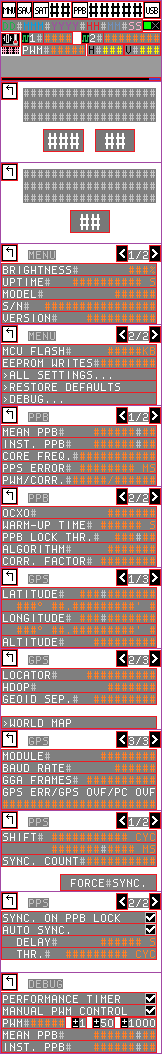
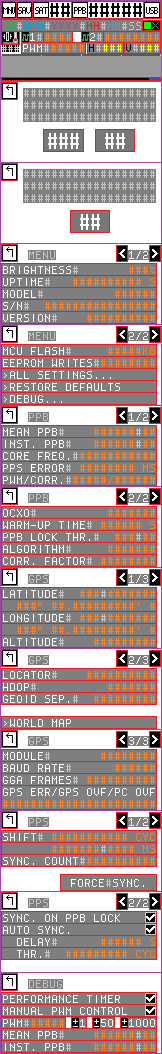
Implement new UI (WIP)

Changed region(s): [[0.0, 0.0304, 0.9877, 0.0607]]

diff --git a/src/ui.c b/src/ui.c
@@ -28,6 +28,9 @@ typedef struct {
     uint16_t samples_per_bar;
     uint16_t bars_per_grid;
     uint32_t samples_per_grid;
+
+    uint16_t major_tick_step;
+    uint16_t minor_tick_step;
 } TrendHScale;
 
 static uint8_t ui_trend_active_h_scale = UI_Trend_HScale_2min;
@@ -50,15 +53,16 @@ static bool     ui_trend_sample_added               = false;
 static uint16_t ui_trend_frame_buffer[UI_TREND_HEIGHT * UI_TREND_FRAME_BUFFER_NUM_BARS] = { 0 };
 
 static const TrendHScale ui_trend_h_scales[UI_Trend_HScale_Max + 1] = {
-    { 1,  1,   1  * 1   }, // UI_Trend_HScale_Auto - dummy entry
-    { 1,  120, 1  * 120 }, // UI_Trend_HScale_2min
-    { 2,  150, 2  * 150 }, // UI_Trend_HScale_5min
-    { 4,  150, 4  * 150 }, // UI_Trend_HScale_10min
-    { 8,  150, 8  * 150 }, // UI_Trend_HScale_20min
-    { 15, 160, 15 * 160 }, // UI_Trend_HScale_40min
-    { 24, 150, 24 * 150 }, // UI_Trend_HScale_1h
-    { 48, 150, 48 * 150 }, // UI_Trend_HScale_2h
+    { 1,  1,   1  * 1,   1,  1  }, // UI_Trend_HScale_Auto - dummy entry
+    { 1,  120, 1  * 120, 30, 10 }, // UI_Trend_HScale_2min
+    { 2,  150, 2  * 150, 30, 15 }, // UI_Trend_HScale_5min
+    { 4,  150, 4  * 150, 30, 15 }, // UI_Trend_HScale_10min
+    { 8,  150, 8  * 150, 75, 15 }, // UI_Trend_HScale_20min
+    { 15, 160, 15 * 160, 40, 8  }, // UI_Trend_HScale_40min
+    { 24, 150, 24 * 150, 75, 25 }, // UI_Trend_HScale_1h
+    { 48, 150, 48 * 150, 75, 25 }, // UI_Trend_HScale_2h
 };
+
 static const uint32_t ui_trend_v_scales[UI_Trend_VScale_Max + 1] = {
     1,       // UI_Trend_VScale_Auto - dummy entry
     2'00,    // UI_Trend_VScale_2ppb
@@ -129,8 +133,9 @@ static void ui_proc_out2_freq(const UIElement* element, UICommand command, int32
 static void ui_proc_pwm(const UIElement* element, UICommand command, int32_t encoder_step);
 static void ui_proc_trend_h(const UIElement* element, UICommand command, int32_t encoder_step);
 static void ui_proc_trend_v(const UIElement* element, UICommand command, int32_t encoder_step);
+static void ui_proc_trend_timemarks(const UIElement* element, UICommand command, int32_t encoder_step);
 static void ui_proc_trend_graph(const UIElement* element, UICommand command, int32_t encoder_step);
-static void ui_proc_trend_timeline(const UIElement* element, UICommand command, int32_t encoder_step);
+static void ui_proc_trend_scroll(const UIElement* element, UICommand command, int32_t encoder_step);
 
 static const UIElement ui_main_screen_elements[] = {
     // Top line
@@ -142,18 +147,19 @@ static const UIElement ui_main_screen_elements[] = {
     // Main part
     { 1,   19, 140, 11, UI_STYLE_FOCUSABLE | UI_STYLE_INPUT_CAPTURING, ui_proc_datetime        },
     { 142, 20, 17,  9,  UI_STYLE_FOCUSABLE,                            ui_proc_pps             },
-    { 1,   33, 17,  12, UI_STYLE_FOCUSABLE,                            ui_proc_status          },
-//  { 1,   46, 17,  7 } - empty space reserved for the warm-up countdown timer drawn by 'ui_proc_status'
-    { 21,  32, 21,  10, UI_STYLE_FOCUSABLE | UI_STYLE_INPUT_CAPTURING, ui_proc_out1_drv_str    },
-    { 43,  32, 28,  10, UI_STYLE_FOCUSABLE | UI_STYLE_INPUT_CAPTURING, ui_proc_out1_freq       },
-    { 81,  32, 21,  10, UI_STYLE_FOCUSABLE | UI_STYLE_INPUT_CAPTURING, ui_proc_out2_drv_str    },
-    { 103, 32, 56,  10, UI_STYLE_FOCUSABLE | UI_STYLE_INPUT_CAPTURING, ui_proc_out2_freq       },
-    { 21,  44, 63,  10, UI_STYLE_FOCUSABLE,                            ui_proc_pwm             },
+    { 1,   31, 17,  12, UI_STYLE_FOCUSABLE,                            ui_proc_status          },
+//  { 1,   44, 17,  7 } - empty space reserved for the warm-up countdown timer drawn by 'ui_proc_status'
+    { 21,  31, 21,  10, UI_STYLE_FOCUSABLE | UI_STYLE_INPUT_CAPTURING, ui_proc_out1_drv_str    },
+    { 43,  31, 28,  10, UI_STYLE_FOCUSABLE | UI_STYLE_INPUT_CAPTURING, ui_proc_out1_freq       },
+    { 81,  31, 21,  10, UI_STYLE_FOCUSABLE | UI_STYLE_INPUT_CAPTURING, ui_proc_out2_drv_str    },
+    { 103, 31, 56,  10, UI_STYLE_FOCUSABLE | UI_STYLE_INPUT_CAPTURING, ui_proc_out2_freq       },
+    { 21,  42, 63,  10, UI_STYLE_FOCUSABLE,                            ui_proc_pwm             },
     // Trend
-    { 87,  44, 35,  10, UI_STYLE_FOCUSABLE | UI_STYLE_INPUT_CAPTURING, ui_proc_trend_h         },
-    { 124, 44, 35,  10, UI_STYLE_FOCUSABLE | UI_STYLE_INPUT_CAPTURING, ui_proc_trend_v         },
+    { 87,  42, 35,  10, UI_STYLE_FOCUSABLE | UI_STYLE_INPUT_CAPTURING, ui_proc_trend_h         },
+    { 124, 42, 35,  10, UI_STYLE_FOCUSABLE | UI_STYLE_INPUT_CAPTURING, ui_proc_trend_v         },
+    { 0,   53, 160,  2, UI_STYLE_NONE,                                 ui_proc_trend_timemarks },
     { 0,   55, 160, UI_TREND_HEIGHT, UI_STYLE_NONE,                    ui_proc_trend_graph     },
-    { 1,   77, 158,  2, UI_STYLE_FOCUSABLE | UI_STYLE_INPUT_CAPTURING, ui_proc_trend_timeline  },
+    { 1,   77, 158,  2, UI_STYLE_FOCUSABLE | UI_STYLE_INPUT_CAPTURING, ui_proc_trend_scroll    },
 };
 
 UIScreen ui_main_screen = {
@@ -1786,6 +1792,45 @@ static void ui_proc_trend_v(const UIElement* element, UICommand command, int32_t
         UI_Trend_VScale_Max, ui_trend_v_scale_to_string);
 }
 
+static void ui_trend_draw_timemarks(const UIElement* element)
+{
+    TrendHScale scale = ui_trend_h_scales[ui_trend_active_h_scale];
+    int32_t     max_x = (element->x + element->width - 1);
+    int32_t     min_x = max_x - scale.bars_per_grid; // Points to the bar just to the left of the leftmost bar
+
+    // Clear old marks
+    ST7735_FillRectangleFast(element->x, element->y, element->width, element->height, UI_COLOR_BG);
+
+    // Draw minor marks
+    uint16_t y    = element->y + 1;
+    int32_t  step = scale.minor_tick_step;
+    for (int32_t i = max_x; i >= min_x; i -= step) {
+        uint16_t x = (uint16_t)((i == min_x) ? i + 1 : i);
+        ST7735_DrawPixel(x, y, UI_COLOR_TREND_MINOR_MARKS);
+    }
+
+    // Draw major marks
+    y    = element->y;
+    step = scale.major_tick_step;
+    for (int32_t i = max_x; i >= min_x; i -= step) {
+        uint16_t x = (uint16_t)((i == min_x) ? i + 1 : i);
+        ST7735_FillRectangle(x, y, 1, 2, UI_COLOR_TREND_MAJOR_MARKS);
+    }
+}
+
+static void ui_proc_trend_timemarks(const UIElement* element, UICommand command, int32_t encoder_step)
+{
+    static uint8_t ui_cache_trend_active_h_scale = UI_Trend_HScale_Auto;
+
+    // Draw time marks
+    if ((command & UICommand_Init) || (ui_trend_active_h_scale != ui_cache_trend_active_h_scale)) {
+        ui_cache_trend_active_h_scale = ui_trend_active_h_scale;
+        ui_trend_draw_timemarks(element);
+    }
+
+    ui_default_element_proc(element, command, encoder_step);
+}
+
 static inline void ui_trend_frm_buf_fill(uint32_t bar, uint32_t bar_height, uint16_t color_bg, uint16_t color_bar)
 {
     if (bar_height > UI_TREND_HEIGHT) {
@@ -2012,7 +2057,7 @@ static void ui_trend_draw_scroll(const UIElement* element)
     }
 }
 
-static void ui_proc_trend_timeline(const UIElement* element, UICommand command, int32_t encoder_step)
+static void ui_proc_trend_scroll(const UIElement* element, UICommand command, int32_t encoder_step)
 {
     static uint8_t ui_cache_trend_active_h_scale = UI_Trend_HScale_Auto;
     static uint8_t ui_cache_trend_scroll_offset  = 0;

diff --git a/src/icons.c b/src/icons.c
@@ -229,6 +229,7 @@ const uint16_t icon_back_15x16[] = {
 };
 
 const uint16_t icon_status_ok_15x12[] = {
+    0x0000,0x0000,0x0000,0x0000,0x0000,0x0000,0x0000,0x0000,0x0000,0x0000,0x0000,0x0000,0x0000,0x0000,0x0000,
     0x0000,0x0000,0x0000,0x8925,0x8925,0x8925,0x0000,0x0000,0x8925,0x0000,0x0000,0x0000,0x8925,0x0000,0x0000,
     0x0000,0x0000,0x8925,0x0000,0x0000,0x0000,0x8925,0x0000,0x8925,0x0000,0x0000,0x8925,0x0000,0x0000,0x0000,
     0x0000,0x0000,0x8925,0x0000,0x0000,0x0000,0x8925,0x0000,0x8925,0x0000,0x8925,0x0000,0x0000,0x0000,0x0000,
@@ -237,7 +238,6 @@ const uint16_t icon_status_ok_15x12[] = {
     0x0000,0x0000,0x8925,0x0000,0x0000,0x0000,0x8925,0x0000,0x8925,0x0000,0x0000,0x8925,0x0000,0x0000,0x0000,
     0x0000,0x0000,0x8925,0x0000,0x0000,0x0000,0x8925,0x0000,0x8925,0x0000,0x0000,0x8925,0x0000,0x0000,0x0000,
     0x0000,0x0000,0x0000,0x8925,0x8925,0x8925,0x0000,0x0000,0x8925,0x0000,0x0000,0x0000,0x8925,0x0000,0x0000,
-    0x0000,0x0000,0x0000,0x0000,0x0000,0x0000,0x0000,0x0000,0x0000,0x0000,0x0000,0x0000,0x0000,0x0000,0x0000,
     0x0000,0x0000,0x0000,0x0000,0x0000,0x0000,0x0000,0x0000,0x0000,0x0000,0x0000,0x0000,0x0000,0x0000,0x0000,
     0xEF7B,0xEF7B,0xEF7B,0xEF7B,0xEF7B,0xEF7B,0xEF7B,0xEF7B,0xEF7B,0xEF7B,0xEF7B,0xEF7B,0xEF7B,0xEF7B,0xEF7B,
     0xEF7B,0xEF7B,0xEF7B,0xEF7B,0xEF7B,0xEF7B,0xEF7B,0xEF7B,0xEF7B,0xEF7B,0xEF7B,0xEF7B,0xEF7B,0xEF7B,0xEF7B,

diff --git a/src/ui_core.h b/src/ui_core.h
@@ -24,6 +24,8 @@ extern bool ui_show_performance_timer;
 #define UI_COLOR_TREND_BAR          (ST7735_COLOR565(250, 170, 80))
 #define UI_COLOR_TREND_BG           (ST7735_COLOR565(70, 70, 70))
 #define UI_COLOR_TREND_NODATA       (ST7735_COLOR565(8, 8, 8))
+#define UI_COLOR_TREND_MAJOR_MARKS  (ST7735_WHITE)
+#define UI_COLOR_TREND_MINOR_MARKS  (ST7735_COLOR565(150, 150, 150))
 #define UI_COLOR_TREND_SCROLL       (ST7735_COLOR565(30, 230, 30))
 
 typedef enum {
